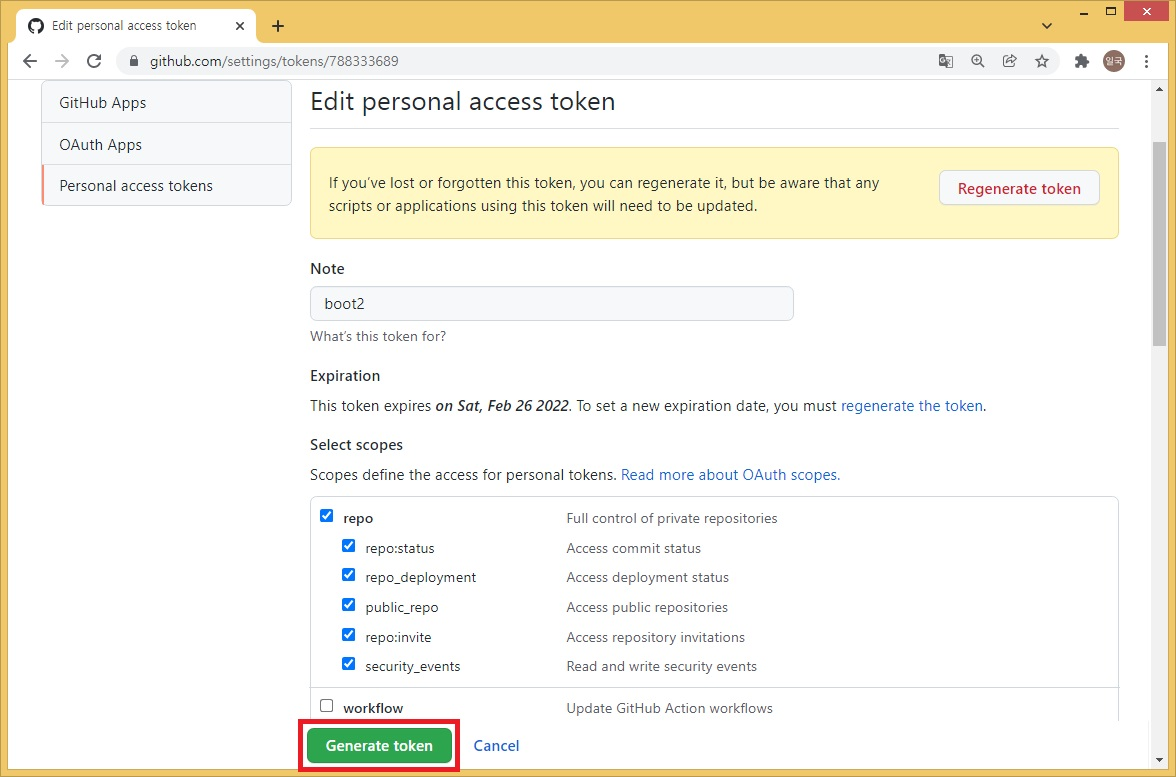
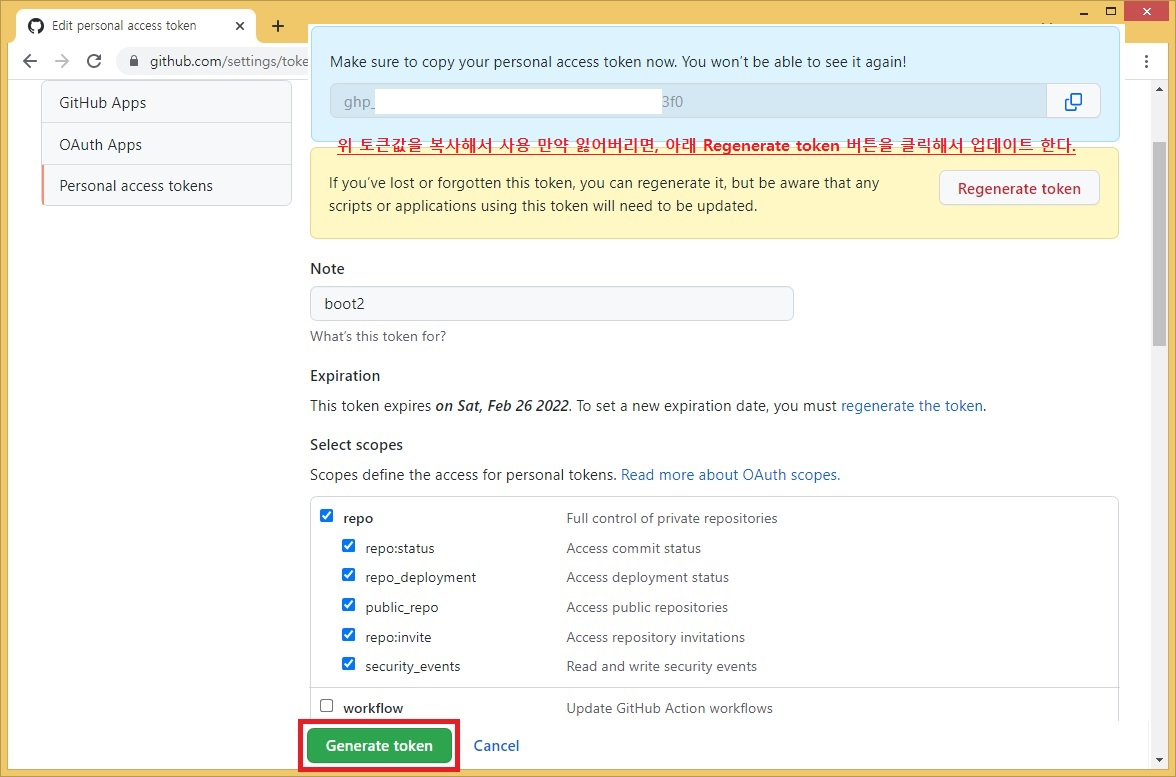
1주차 2교시 작업소스

Changed region(s): [[0.2449, 0.0309, 0.9796, 0.2162]]

diff --git a/README.md b/README.md
@@ -3,8 +3,8 @@
 - [교수의 모든 주차_교시별 강의용소스 링크](https://github.com/kimilguk/kimilguk-boot2/branches/all)
 
 #### 아래항목은 필요한 학생만 선택해서 하세요
-- 보안때문에 Token값 생성 및 사용필수(아래)
-- 깃허브 Settings > Developer settings 메뉴 Generate token버튼 필요
+- 보안때문에 Token값 생성 및 사용필수(아래1-2단계)
+- 깃허브 Settings > Developer settings 메뉴 Generate token버튼 으로 생성한 토큰 값을 복사해 놓는다.(보안때문에 깃 푸시할때 매번 입력하는것을 추천한다)
 ![ex_screenshot](./README/git07.jpg)
 
 - 깃허브 저장소 만들기(아래1-2-3단계)
